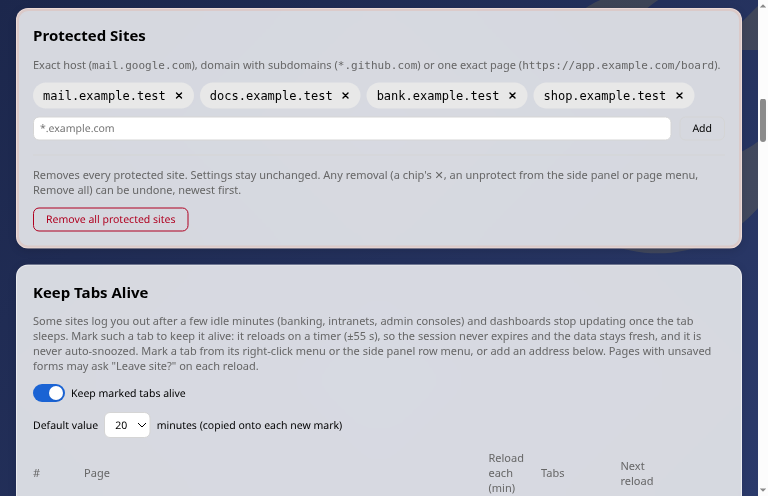
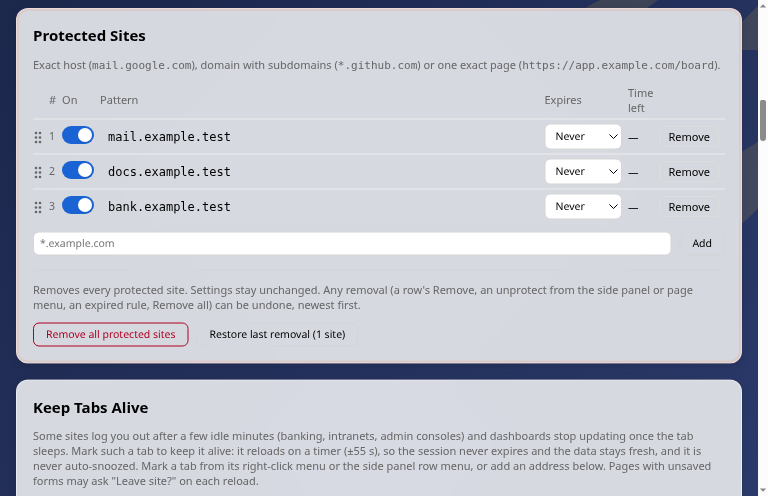
chore: add demo scene and feature screenshots for temporary protection and keep-alive (T-0157)

Changed region(s): [[0.0, 0.5746, 0.9688, 0.998], [0.0, 0.1815, 0.9688, 0.5444], [0.875, 0.3931, 0.9375, 0.4234]]

diff --git a/demo/scenes/temporary.ts b/demo/scenes/temporary.ts
@@ -1,0 +1,104 @@
+import type { Scene } from "./index.ts";
+import { type DragArgs, dragRows } from "./reorder.ts";
+
+// temporary protection and keep-alive (T-0157): the row menu's duration submenu, the temporary
+// badges with the time left in the hover tip, the Settings tables' Expires / Time left, the
+// Protected Sites On box (struck-through badge) and drag reorder; the shop site is cleaned up at the end
+export const temporaryProtection: Scene = {
+  id: "temporary-protection",
+  settings: "#rules-table",
+  title: "New: protect or keep alive for a while",
+  newIn: "1.1.0",
+  covers: /temporar|expir|duration|disabled protected|protected sites/i,
+  async run(stage) {
+    await stage.caption("New in 1.1.0 — protect a site for a while, not for good", 1800);
+    // an awake tab of each site, whatever the world's seed snoozed: the shop (unprotected, unmarked)
+    // gets the temporary rule and mark, a docs tab shows the fixture's docs rule switched off
+    const awakeTitle = (host: string, fallback: string) =>
+      stage.worker.evaluate(
+        async ([pattern, name]) => (await chrome.tabs.query({ url: pattern, discarded: false }))[0]?.title ?? name,
+        [`http://${host}/*`, fallback] as const,
+      );
+    const row = stage.awakeRow(await awakeTitle("shop.example.test", "Standing desk"));
+    // every duration submenu holds the same labels: the open one (hover expanded it) is the target
+    const duration = (text: string) =>
+      stage.panel.locator("#ctx-menu .ctx-submenu:not([hidden]) .ctx-item", { hasText: text }).first();
+    await stage.click(row, { button: "right" });
+    await stage.pause(500);
+    // hovering the parent opens the durations after the menu's hover delay; its click is still "Always"
+    await stage.hover(stage.menuItem("Protect domain"));
+    await stage.pause(900);
+    await stage.caption("Hover Protect domain: Always, or 1 hour to 1 week — the click itself is Always", 1400);
+    await stage.still("protect-durations-menu");
+    await stage.click(duration("1 day"));
+    await stage.pause(1200);
+    stage.check(
+      (await row.locator(".badge", { hasText: "temporary protected" }).count()) > 0,
+      "temporary-protection: the row shows no temporary protected badge",
+    );
+    await stage.caption("Keep alive the same way: Keep alive domain / URL open the durations too", 1200);
+    await stage.click(row, { button: "right" });
+    await stage.pause(500);
+    await stage.hover(stage.menuItem("Keep alive domain"));
+    await stage.pause(900);
+    await stage.click(duration("2 hours"));
+    await stage.pause(1200);
+    await stage.hover(row);
+    await stage.caption("The badges say temporary; the hover tip adds the time left", 1600);
+    await stage.still("temporary-badges-tip");
+    await stage.caption(
+      "Settings lists every rule and mark with its Expires and Time left — pick a duration there too",
+      1200,
+    );
+    await stage.settings("#rules-table");
+    await stage.pause(1200);
+    await stage.still("settings-protected-expires", "settings");
+    await stage.settings("#keep-alive-table");
+    await stage.pause(1200);
+    await stage.still("settings-keep-alive-expires", "settings");
+    // the On box: the docs rule stays listed, protects nothing — the panel strikes the badge through
+    await stage.caption("Untick On: the rule stays, protects nothing, the badge is struck through", 1200);
+    await stage.settings("#rules-table");
+    const settings = stage.aside.settings;
+    const docsOn = settings.locator("#rules tr", { hasText: "docs.example.test" }).locator("input[type=checkbox]");
+    await docsOn.evaluate((element) => (element as HTMLElement).click());
+    await stage.pause(1200);
+    const docs = stage.awakeRow(await awakeTitle("docs.example.test", "Roadmap 2027"));
+    // the first hover scrolls the row into view and the list's scroll hides the tip; a second move
+    // (onto the badge) re-enters the row once the scroll has settled, so the tip is in the still
+    await stage.hover(docs);
+    await stage.pause(800);
+    await stage.hover(docs.locator(".badge.off").first());
+    await stage.pause(1200);
+    stage.check(
+      (await docs.locator(".badge.off", { hasText: "protected" }).count()) > 0,
+      "temporary-protection: the docs row shows no struck-through protected badge",
+    );
+    await stage.still("protected-disabled-badge");
+    await docsOn.evaluate((element) => (element as HTMLElement).click());
+    await stage.pause(800);
+    // drag reorder, like the keep-alive marks (reorder.ts): the last rule onto the first
+    await stage.caption("…and drag the rules into any order, like the keep-alive marks", 1200);
+    const keys = await settings.evaluate(() =>
+      Array.from(document.querySelectorAll<HTMLElement>("#rules tr[data-key]")).map((row) => row.dataset.key ?? ""),
+    );
+    const from = keys[keys.length - 1] ?? "";
+    const to = keys[0] ?? "";
+    stage.check(keys.length >= 2 && from !== to, "temporary-protection: fewer than two rules to reorder");
+    await settings.evaluate(dragRows, { rows: "rules", from, to, step: "over" } satisfies DragArgs);
+    await stage.pause(1200);
+    await stage.still("settings-reorder-protected", "settings");
+    await settings.evaluate(dragRows, { rows: "rules", from, to, step: "drop" } satisfies DragArgs);
+    await stage.pause(1000);
+    // the shop site back as it was: the later scenes expect it unprotected and unmarked
+    await stage.click(row, { button: "right" });
+    await stage.pause(400);
+    await stage.click(stage.menuItem("Remove domain from keep-alive"));
+    await stage.pause(800);
+    await stage.click(row, { button: "right" });
+    await stage.pause(400);
+    await stage.click(stage.menuItem("Unprotect"));
+    await stage.pause(800);
+    await stage.caption("", 300);
+  },
+};

diff --git a/src/pages/options/index.html b/src/pages/options/index.html
@@ -290,7 +290,7 @@
     :is(#tag-rows, #tag-page-rows, #keep-alive-rows, #rules) tr.drop-target td:first-child { box-shadow: inset 2px 2px 0 var(--accent), inset 0 -2px 0 var(--accent); border-radius: 6px 0 0 6px; }
     :is(#tag-rows, #tag-page-rows, #keep-alive-rows, #rules) tr.drop-target td:last-child { box-shadow: inset -2px 2px 0 var(--accent), inset 0 -2px 0 var(--accent); border-radius: 0 6px 6px 0; }
     :is(#keep-alive-table, #rules-table) td:last-child { text-align: right; }
-    #keep-alive-table button {
+    :is(#keep-alive-table, #rules-table) button {
       border: 1px solid light-dark(#ddd, #444);
       background: none;
       color: inherit;
@@ -300,7 +300,7 @@
       font-size: 11px;
       transition: background var(--transition);
     }
-    #keep-alive-table button:hover { background: var(--hover); }
+    :is(#keep-alive-table, #rules-table) button:hover { background: var(--hover); }
 
     #links li { display: flex; justify-content: space-between; align-items: center; padding: 4px 0; border-bottom: 1px solid light-dark(#eee, #333); }
     #links li:last-child { border-bottom: none; }

diff --git a/demo/scenes/reorder.ts b/demo/scenes/reorder.ts
@@ -3,13 +3,13 @@ import type { Scene } from "./index.ts";
 // drag reorder of the Settings tables (T-0154): the Settings pane has no cursor, so the drag is
 // the row-reorder's own events dispatched on the real rows — dragstart + dragover hold the
 // highlight on screen, drop + dragend let the writer move the row
-interface DragArgs {
+export interface DragArgs {
   rows: string; // tbody id
   from: string; // data-key of the dragged row
   to: string; // data-key of the row it lands on
   step: "over" | "drop";
 }
-function dragRows(args: DragArgs): boolean {
+export function dragRows(args: DragArgs): boolean {
   const table = document.getElementById(args.rows);
   const find = (key: string) => table?.querySelector<HTMLElement>(`tr[data-key="${CSS.escape(key)}"]`) ?? null;
   const dragged = find(args.from);

diff --git a/demo/scenes/index.ts b/demo/scenes/index.ts
@@ -6,6 +6,7 @@ import { grouping } from "./grouping.ts";
 import { keepAliveDomain } from "./keep-alive.ts";
 import { settingsReorder } from "./reorder.ts";
 import { tagFragment } from "./tag-fragment.ts";
+import { temporaryProtection } from "./temporary.ts";
 import { filters, search } from "./search.ts";
 import { settings } from "./settings.ts";
 import { sharedView } from "./shared-view.ts";
@@ -30,6 +31,7 @@ export interface Scene {
 // the "new in this release" scenes play first, then the tour of everything else; the outro
 // (no newIn, ever) stays last through the reordering
 export const SCENES: Scene[] = [
+  temporaryProtection,
   keepAliveDomain,
   settingsReorder,
   tagFragment,

diff --git a/docs/FEATURES.md b/docs/FEATURES.md
@@ -176,4 +176,27 @@ order) and the tagged page rules.
   <img src="assets/features/chrome/settings-reorder-tag-pages.png" alt="Settings - dragging a tagged page rule onto another row" width="460">
 </p>
 
+Protect or keep alive for a while: hover **Protect domain ▸** / **Protect URL ▸** / **Keep alive domain ▸** /
+**Keep alive URL ▸** in a row's menu for *Always (default)* or 1 hour to 1 week (the click itself is
+Always). The row reads **temporary protected** / **temporary keep alive**, the hover tip adds the time left,
+and the rule or mark removes itself when the time is up (Restore last removal brings it back).
+
+<p>
+  <img src="assets/features/chrome/protect-durations-menu.png" alt="Row menu - Protect domain durations" width="360">
+  <img src="assets/features/chrome/temporary-badges-tip.png" alt="Side panel - temporary badges with the time left in the tip" width="360">
+</p>
+
+Settings → Protected Sites is a table like the keep-alive marks: **Expires** (Never or a duration, counted
+from the pick) and a live **Time left** on both tables, an **On** box that keeps a rule listed but protecting
+nothing (the panel shows the badge struck through), and drag-to-reorder by the ⋮⋮ grip.
+
+<p>
+  <img src="assets/features/chrome/settings-protected-expires.png" alt="Settings - Protected sites with Expires and Time left" width="460">
+  <img src="assets/features/chrome/settings-keep-alive-expires.png" alt="Settings - keep-alive marks with Expires and Time left" width="460">
+</p>
+<p>
+  <img src="assets/features/chrome/protected-disabled-badge.png" alt="Side panel - a disabled rule's badge struck through" width="360">
+  <img src="assets/features/chrome/settings-reorder-protected.png" alt="Settings - dragging a protected site onto another row" width="460">
+</p>
+
 → [Usage: Automatic snooze](USAGE.md#automatic-snooze) · [Protecting sites](USAGE.md#protecting-sites) · [Keeping tabs alive](USAGE.md#keeping-tabs-alive) · [Tags](USAGE.md#tags)
